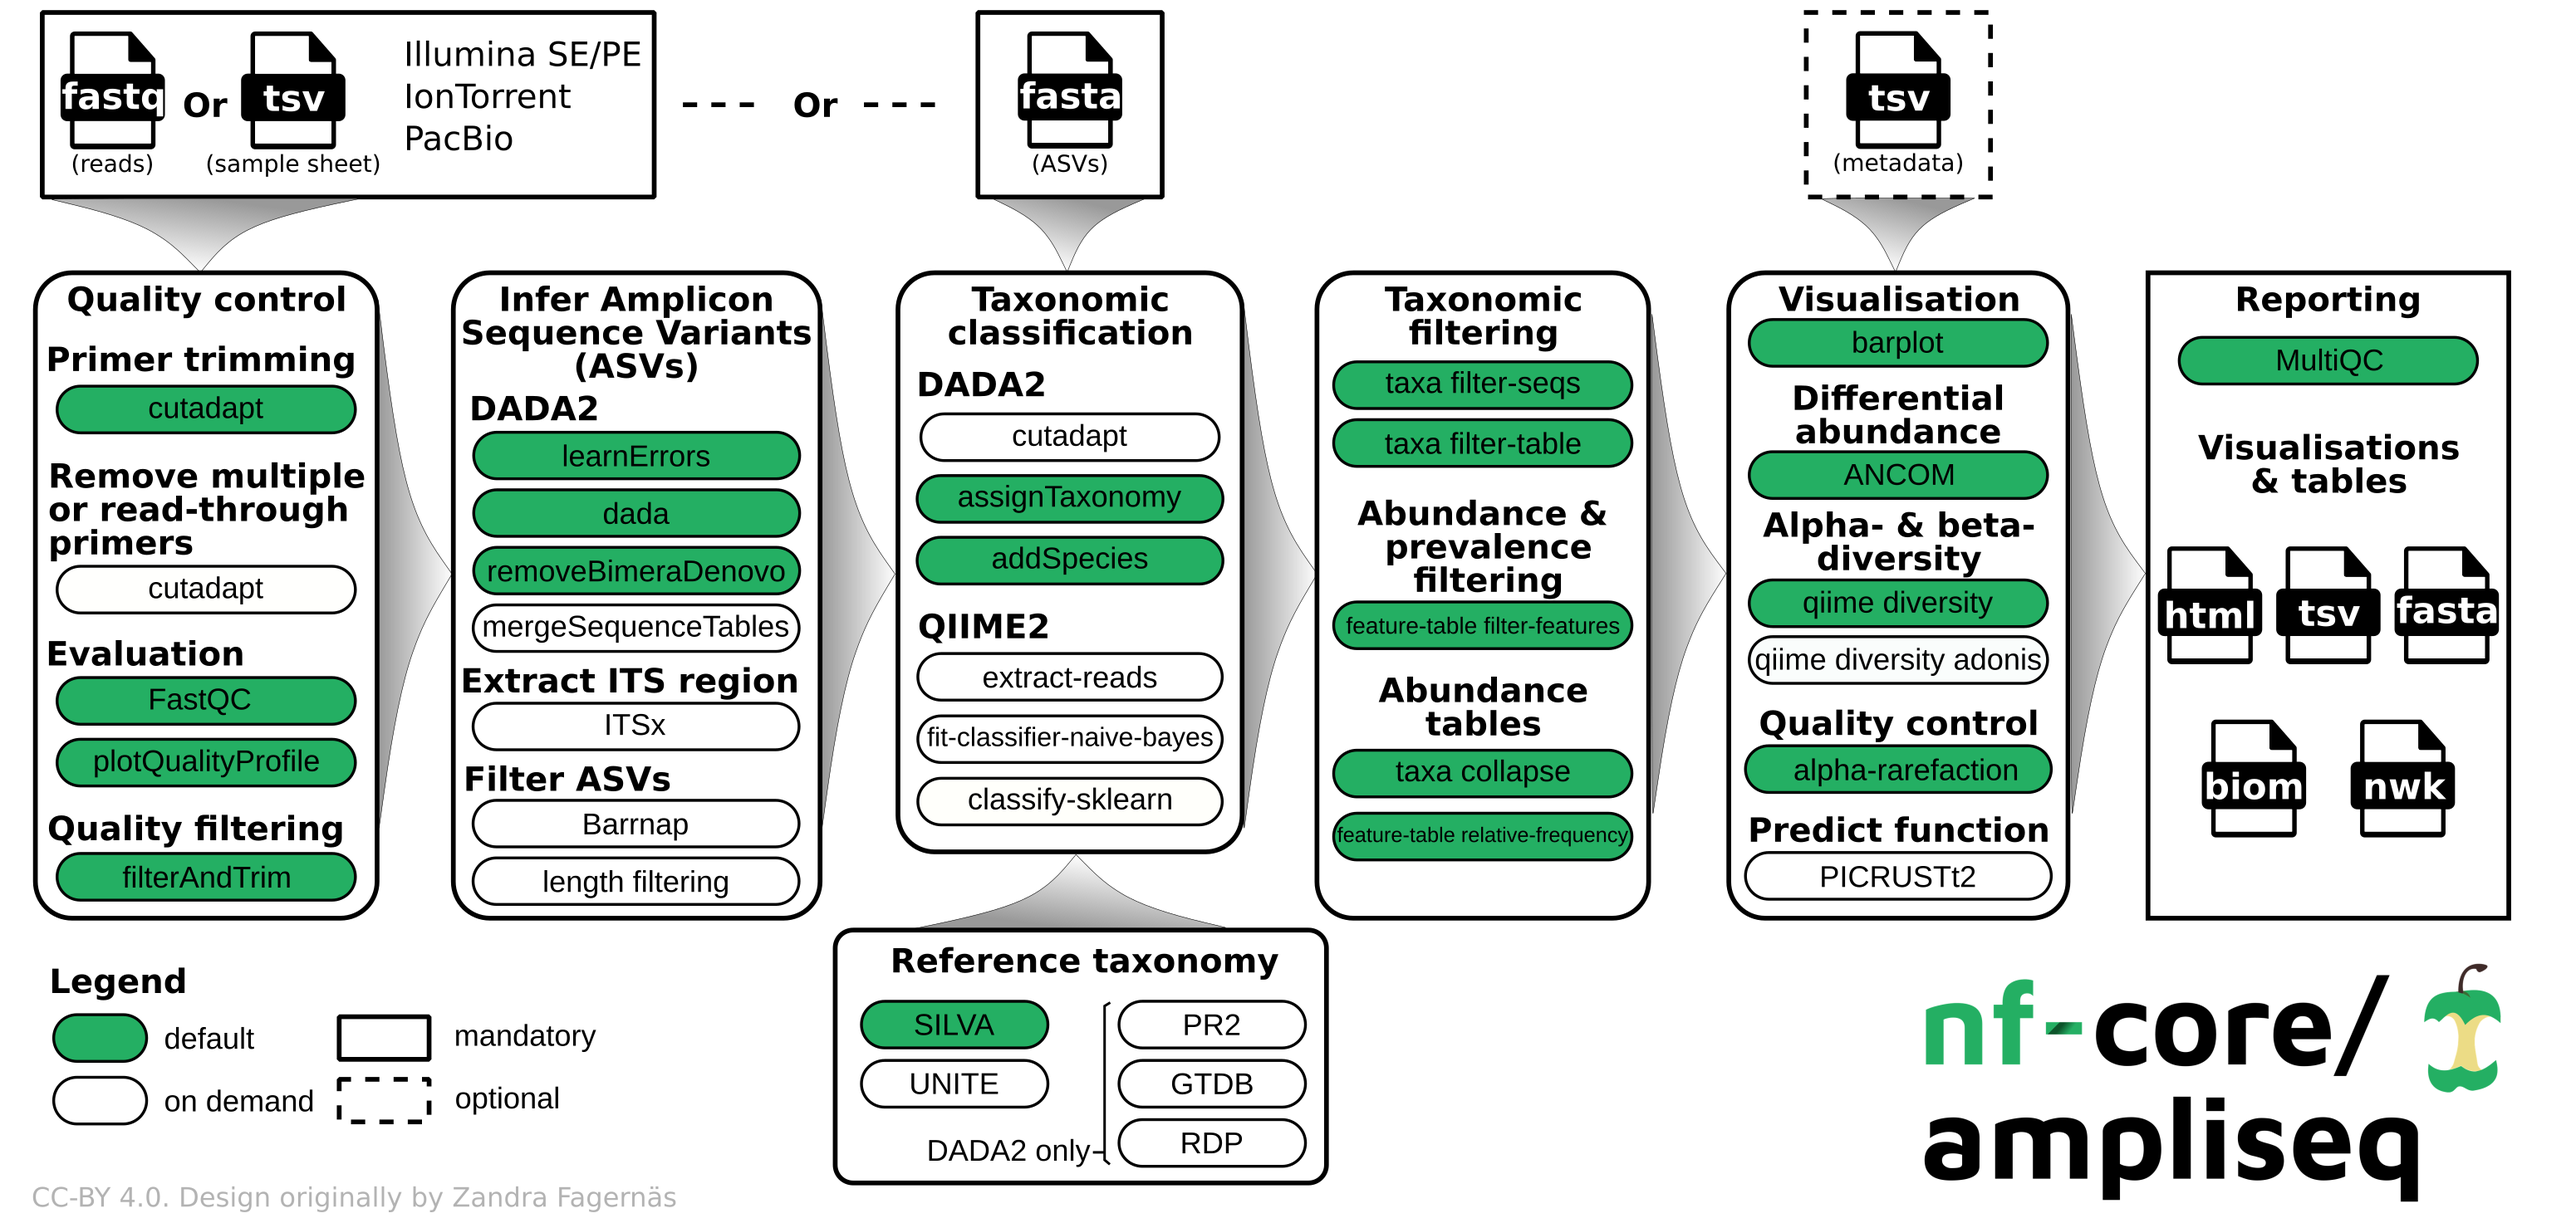
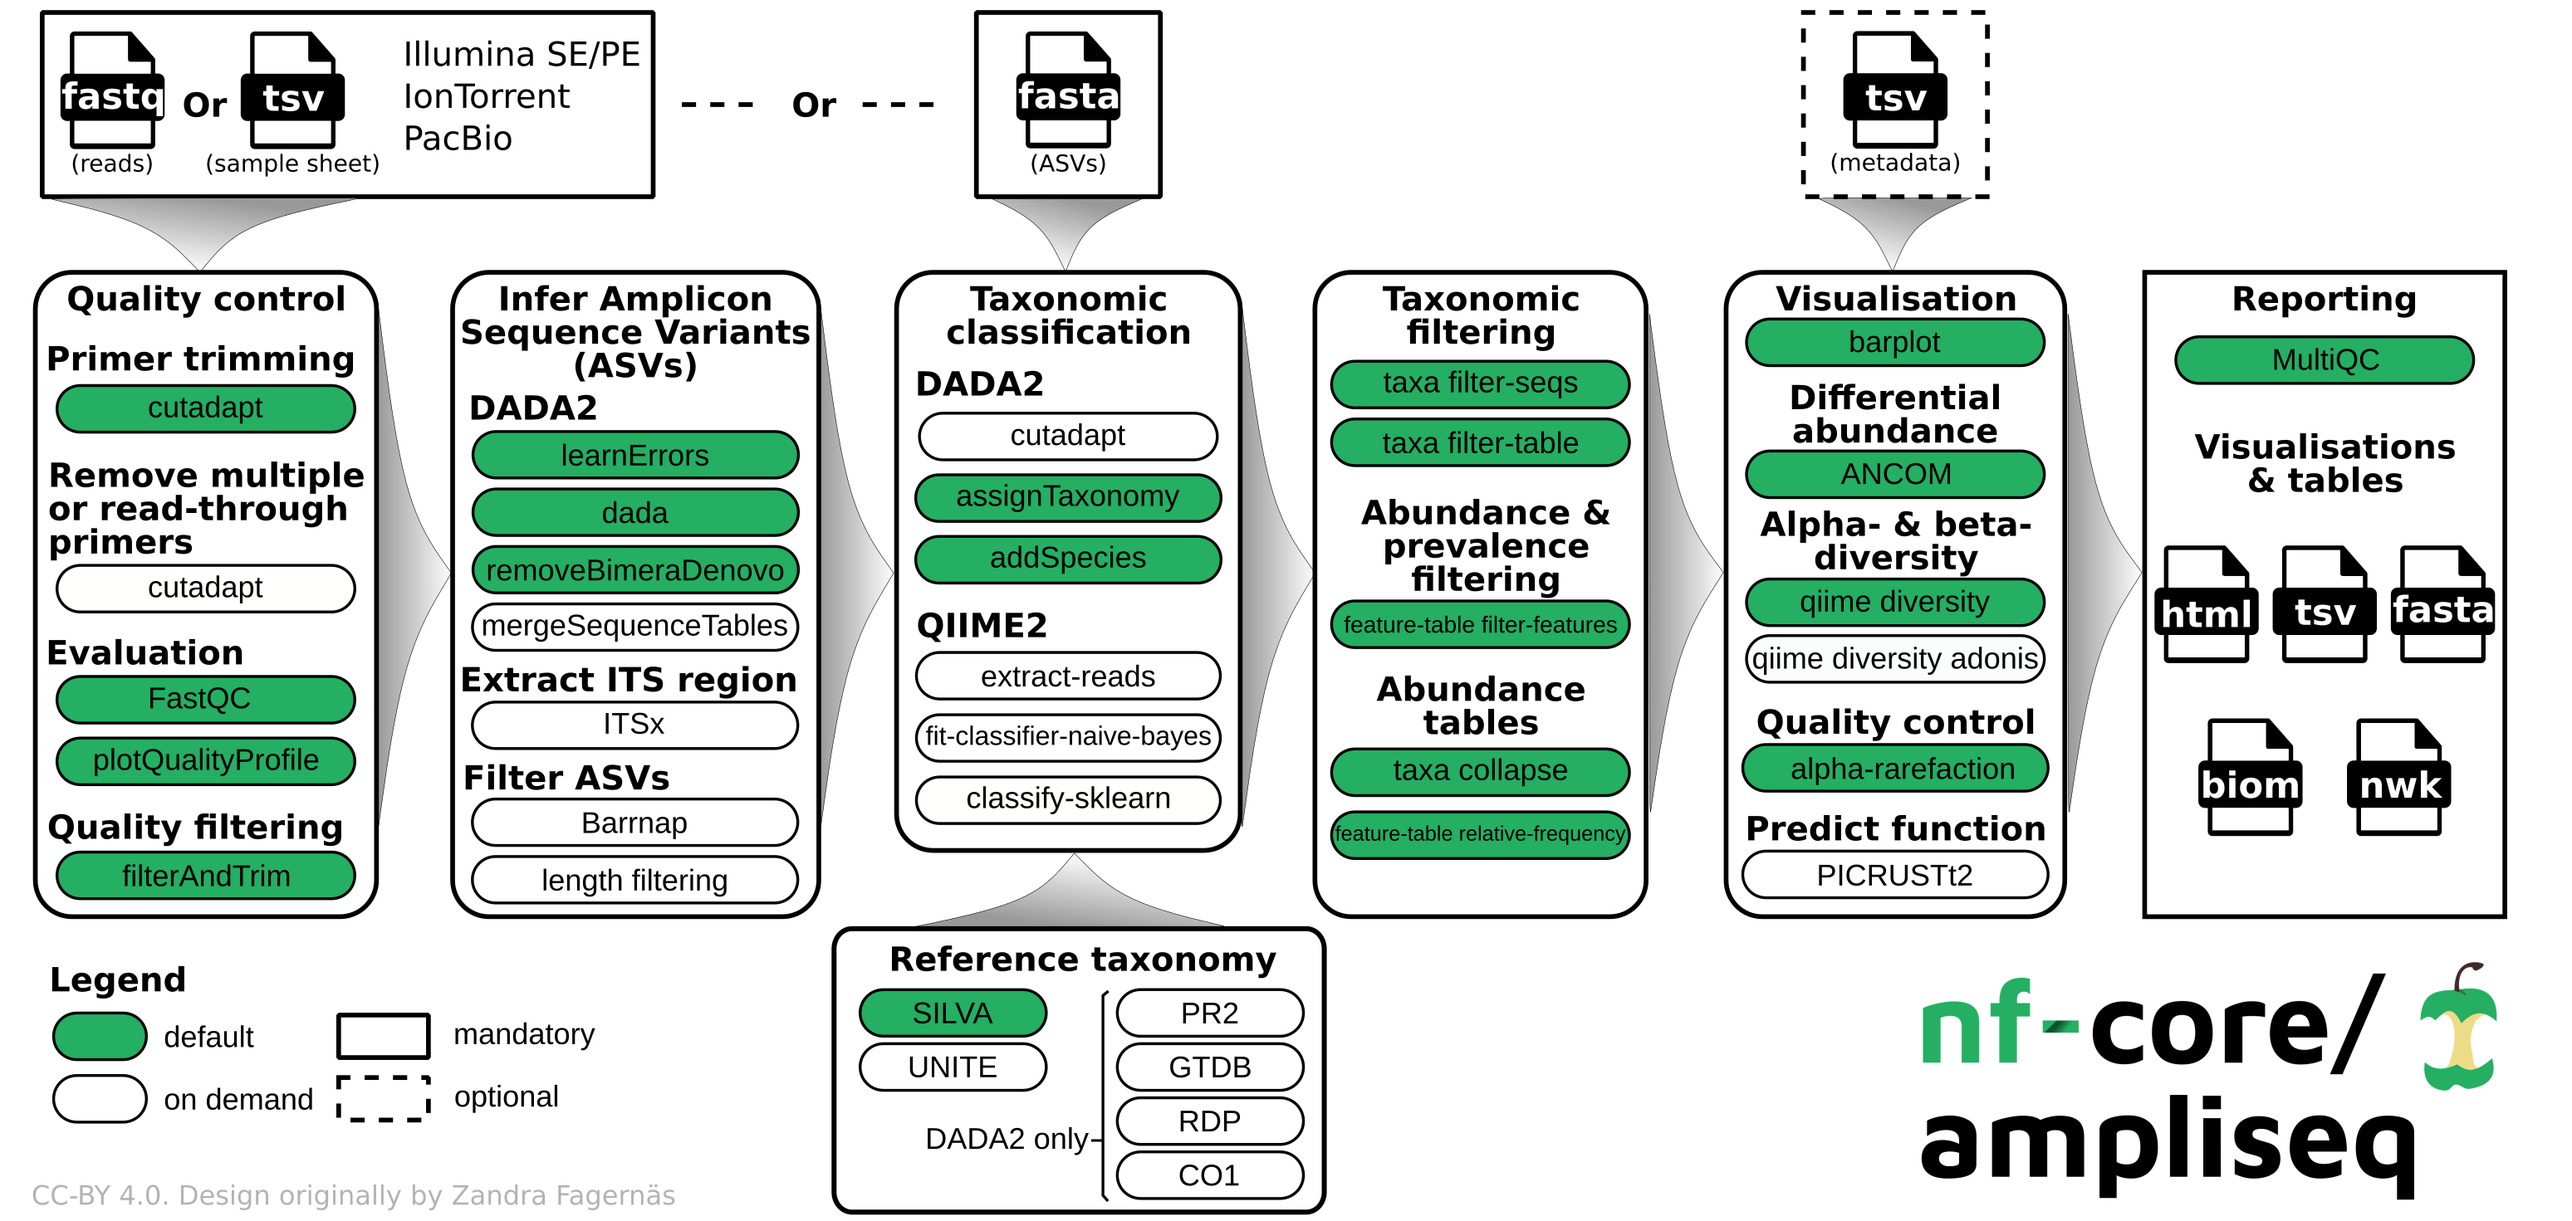
add COI documentation

diff --git a/README.md b/README.md
@@ -19,7 +19,7 @@
 
 ## Introduction
 
-**nfcore/ampliseq** is a bioinformatics analysis pipeline used for amplicon sequencing, supporting denoising of any amplicon and, currently, taxonomic assignment of 16S, ITS and 18S amplicons. Supported is paired-end Illumina or single-end Illumina, PacBio and IonTorrent data. Default is the analysis of 16S rRNA gene amplicons sequenced paired-end with Illumina.
+**nfcore/ampliseq** is a bioinformatics analysis pipeline used for amplicon sequencing, supporting denoising of any amplicon and, currently, taxonomic assignment of 16S, ITS, CO1 and 18S amplicons. Supported is paired-end Illumina or single-end Illumina, PacBio and IonTorrent data. Default is the analysis of 16S rRNA gene amplicons sequenced paired-end with Illumina.
 
 <p align="center">
     <img src="docs/images/ampliseq_workflow.png" alt="nf-core/ampliseq workflow overview" width="60%">

diff --git a/CITATIONS.md b/CITATIONS.md
@@ -62,6 +62,9 @@
   - [MIDORI2 - a collection of reference databases](https://doi.org/10.1002/edn3.303/)
     > Leray, M., Knowlton, N., & Machida, R. J. (2022). MIDORI2: A collection of quality controlled, preformatted, and regularly updated reference databases for taxonomic assignment of eukaryotic mitochondrial sequences. Environmental DNA, 4, 894– 907. https://doi.org/10.1002/edn3.303.
 
+  - [COIDB - CO1 Taxonomy Database](https://doi.org/10.17044/scilifelab.20514192.v2)
+    > Sundh J, Manoharan L, Iwaszkiewicz-Eggebrecht E, Miraldo A, Andersson A, Ronquist F. COI reference sequences from BOLD DB. doi: https://doi.org/10.17044/scilifelab.20514192.v2.
+
 ### Downstream analysis
 
 - [QIIME2](https://pubmed.ncbi.nlm.nih.gov/31341288/)

diff --git a/CHANGELOG.md b/CHANGELOG.md
@@ -7,7 +7,7 @@ and this project adheres to [Semantic Versioning](https://semver.org/spec/v2.0.0
 
 ### `Added`
 
-- [#518](https://github.com/nf-core/ampliseq/pull/518) - Add COIDB DADA2 reference taxonomy database
+- [#518](https://github.com/nf-core/ampliseq/pull/518),[#534](https://github.com/nf-core/ampliseq/pull/534) - Add COIDB DADA2 reference taxonomy database
 - [#521](https://github.com/nf-core/ampliseq/pull/521) - Export svg in addition to pdf files for quality plots from DADA2
 
 ### `Changed`
